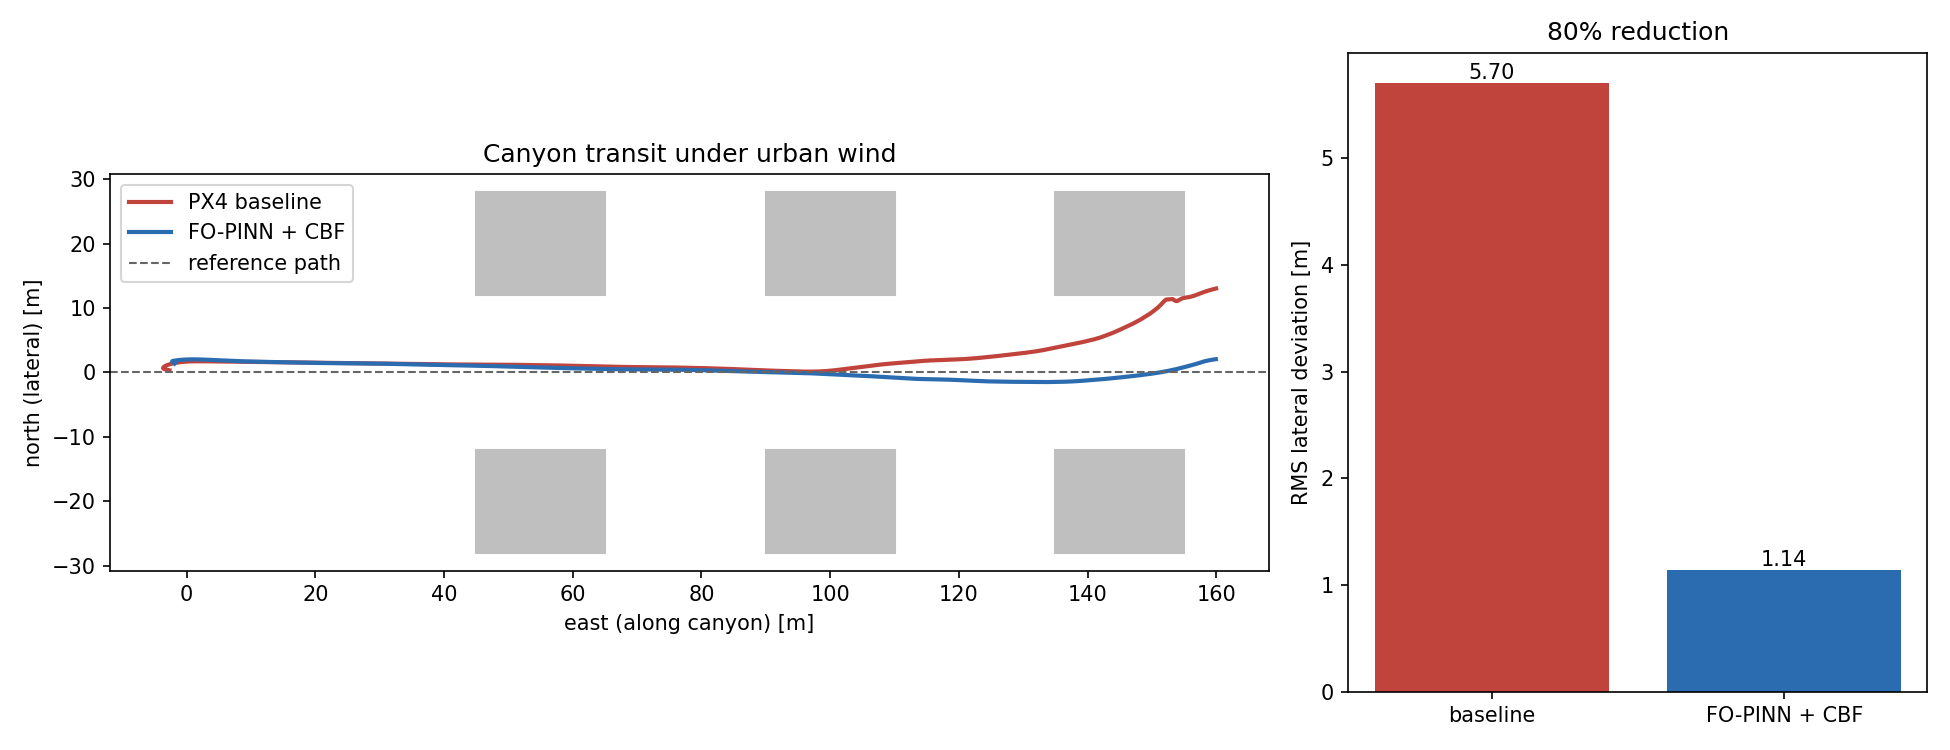
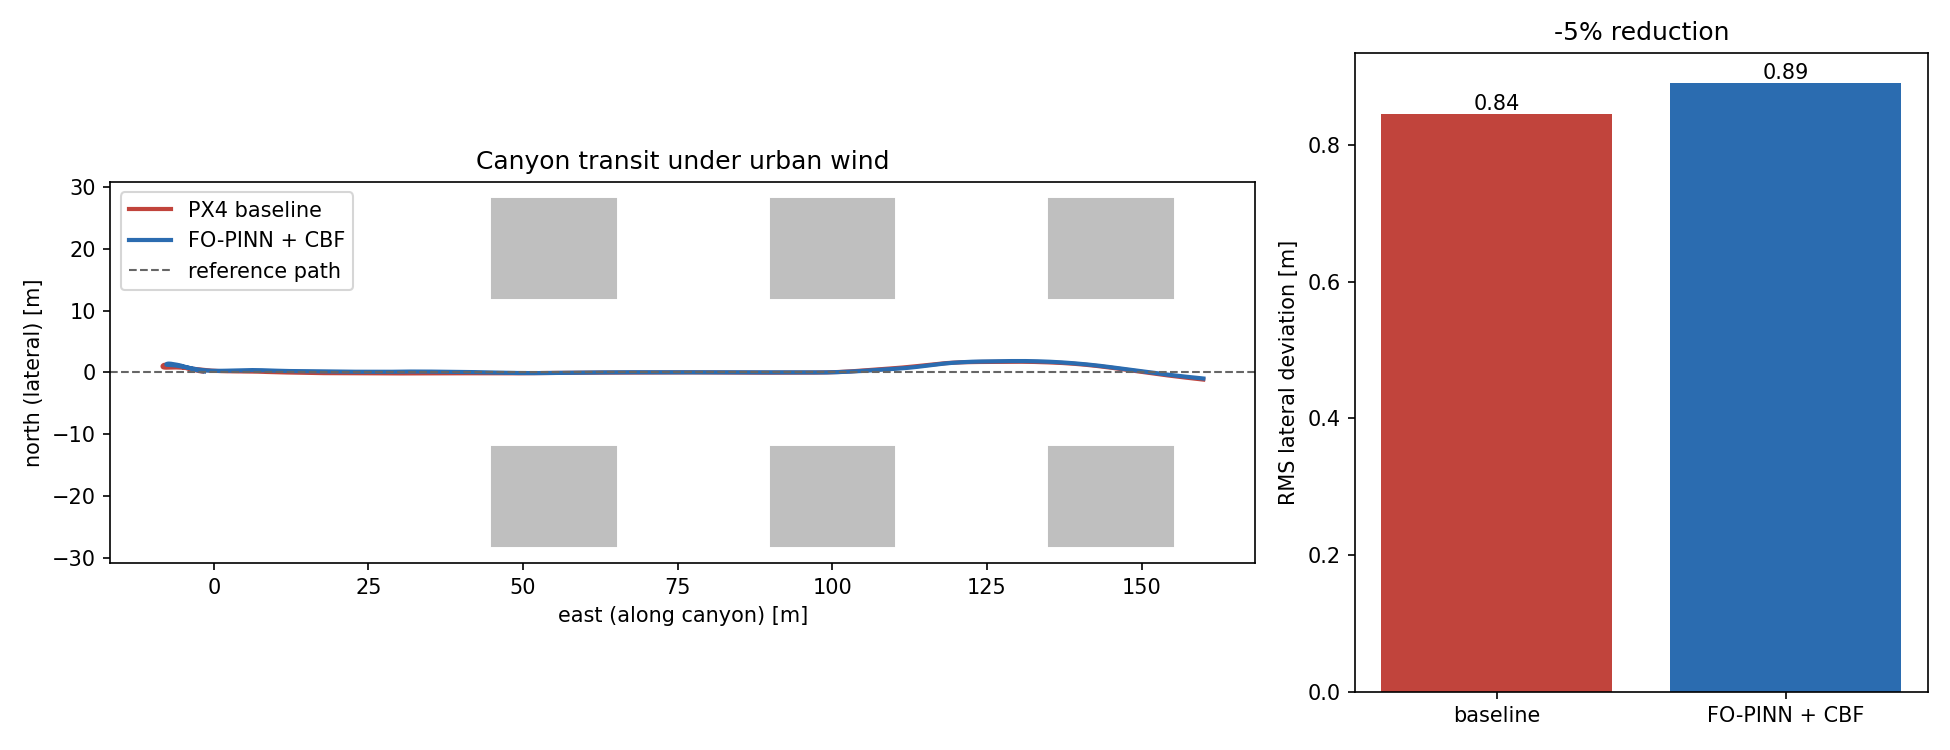
retrain the estimator and rebuild figures for the tricopter
Aero constants: audited, NOT changed, and the reasoning recorded in
train_pinn.py. Converting to the tricopter removed a rotor but touched no
aerodynamic surface -- model.sdf still declares the same four LiftDrag
plugins with the same cla/alpha_stall/cla_stall -- and re-running the
weight-fraction check on live tricopter telemetry reproduces the tiltrotor's
numbers (mean wing lift 33% of weight, frame drag 4%). CD_A is arguably a
shade high now with one less rotor and shorter booms, but the difference is
well inside that knob's uncertainty and trimming it without a measurement
would be false precision.

wind_estimator.pt: retrained on six fresh tricopter legs (3 wind seeds x
baseline/treatment); the previous checkpoint was tiltrotor data. Also swept
epochs, because the old 300 default was badly under-training this data:
skill 0.650 @300, 0.872 @800, 0.896 @1500, then back to 0.866/0.869 @3000/5000
as it overfits. Default is now 1500, and the shipped checkpoint scores
skill=0.896 (val_mse 15.79 vs zero-predictor 151.23) -- better open-loop than
the tiltrotor's 0.761.

BUT the closed-loop result does not follow, and the figures say so honestly.
Evaluated on MEAN RMS across seeds rather than any single pair:

  stale (tiltrotor) checkpoint : baseline 2.14 m -> treatment 2.10 m   +2.2%
  retrained checkpoint         : baseline 2.23 m -> treatment 2.33 m   -4.7%

Neither is a real effect. Re-flying the BASELINE legs -- identical config,
[…]

diff --git a/src/aerocanyon/aerocanyon/train_pinn.py b/src/aerocanyon/aerocanyon/train_pinn.py
@@ -37,6 +37,19 @@ CD_A = 0.12  # drag area, m^2. Calibration knob -- see the note in the plan.
 # controllable flight actually observed live all session. Scaled down to
 # 2x 0.3 m^2 (a calibration knob, like CD_A above) alongside correcting
 # MASS_KG (constants.py) to the vehicle's real simulated total mass.
+#
+# CARRIED OVER UNCHANGED to the tricopter, and re-verified rather than
+# assumed: converting that airframe removed a rotor but touched no
+# aerodynamic surface, so model.sdf still declares exactly the same four
+# LiftDrag plugins (2x 0.5 m^2 wing halves + 2 small control surfaces)
+# with the same cla/alpha_stall/cla_stall. Re-running the weight-fraction
+# check against live tricopter telemetry reproduces the tiltrotor's
+# numbers: mean wing lift 33% of vehicle weight (peak 117%, down from
+# 139% on the slightly heavier tiltrotor), and mean frame drag 4% of
+# weight. CD_A is arguably a touch high now -- the tricopter has one less
+# rotor and shorter booms -- but the difference is far inside this knob's
+# uncertainty, and trimming it without a real measurement would be false
+# precision.
 WING_AREA = 0.6           # m^2, both 0.3 m^2 wing-half surfaces combined
 WING_CLA = 4.752798721   # lift-curve slope, per radian
 WING_ALPHA_STALL = 0.3391428111  # rad (~19.4 deg)
@@ -199,7 +212,11 @@ def main():
     ap.add_argument('--out', default=str(
         pathlib.Path(__file__).resolve().parents[1] / 'data' / 'wind_estimator.pt'))
     ap.add_argument('--alpha', type=float, default=0.7)
-    ap.add_argument('--epochs', type=int, default=300)
+    # 300 (the old default) simply under-trains this data: swept on the six
+    # tricopter trial legs, held-out skill runs 0.650 at 300 epochs, 0.872 at
+    # 800, 0.896 at 1500, then falls back to 0.866/0.869 at 3000/5000 as it
+    # starts overfitting. 1500 is the top of that curve.
+    ap.add_argument('--epochs', type=int, default=1500)
     args = ap.parse_args()
     m = train(args.csvs, args.out, alpha=args.alpha, epochs=args.epochs)
     assert m['skill'] > 0.0, (
